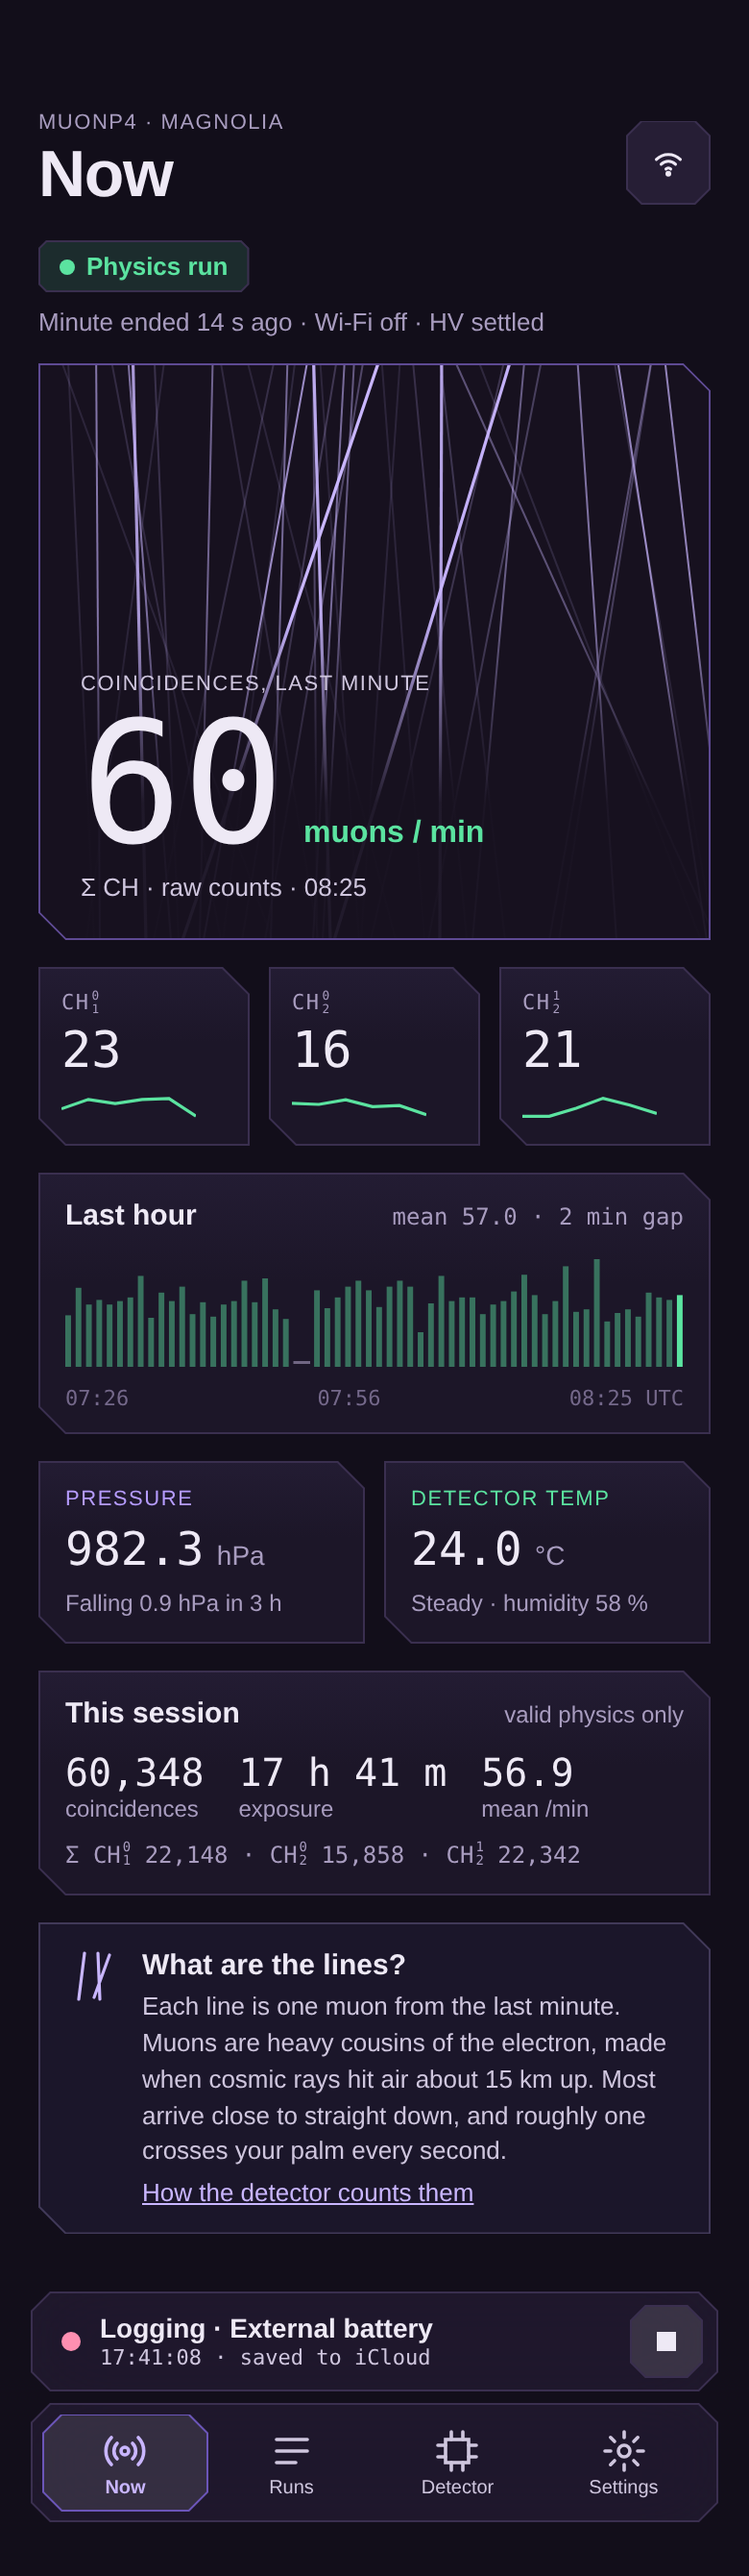
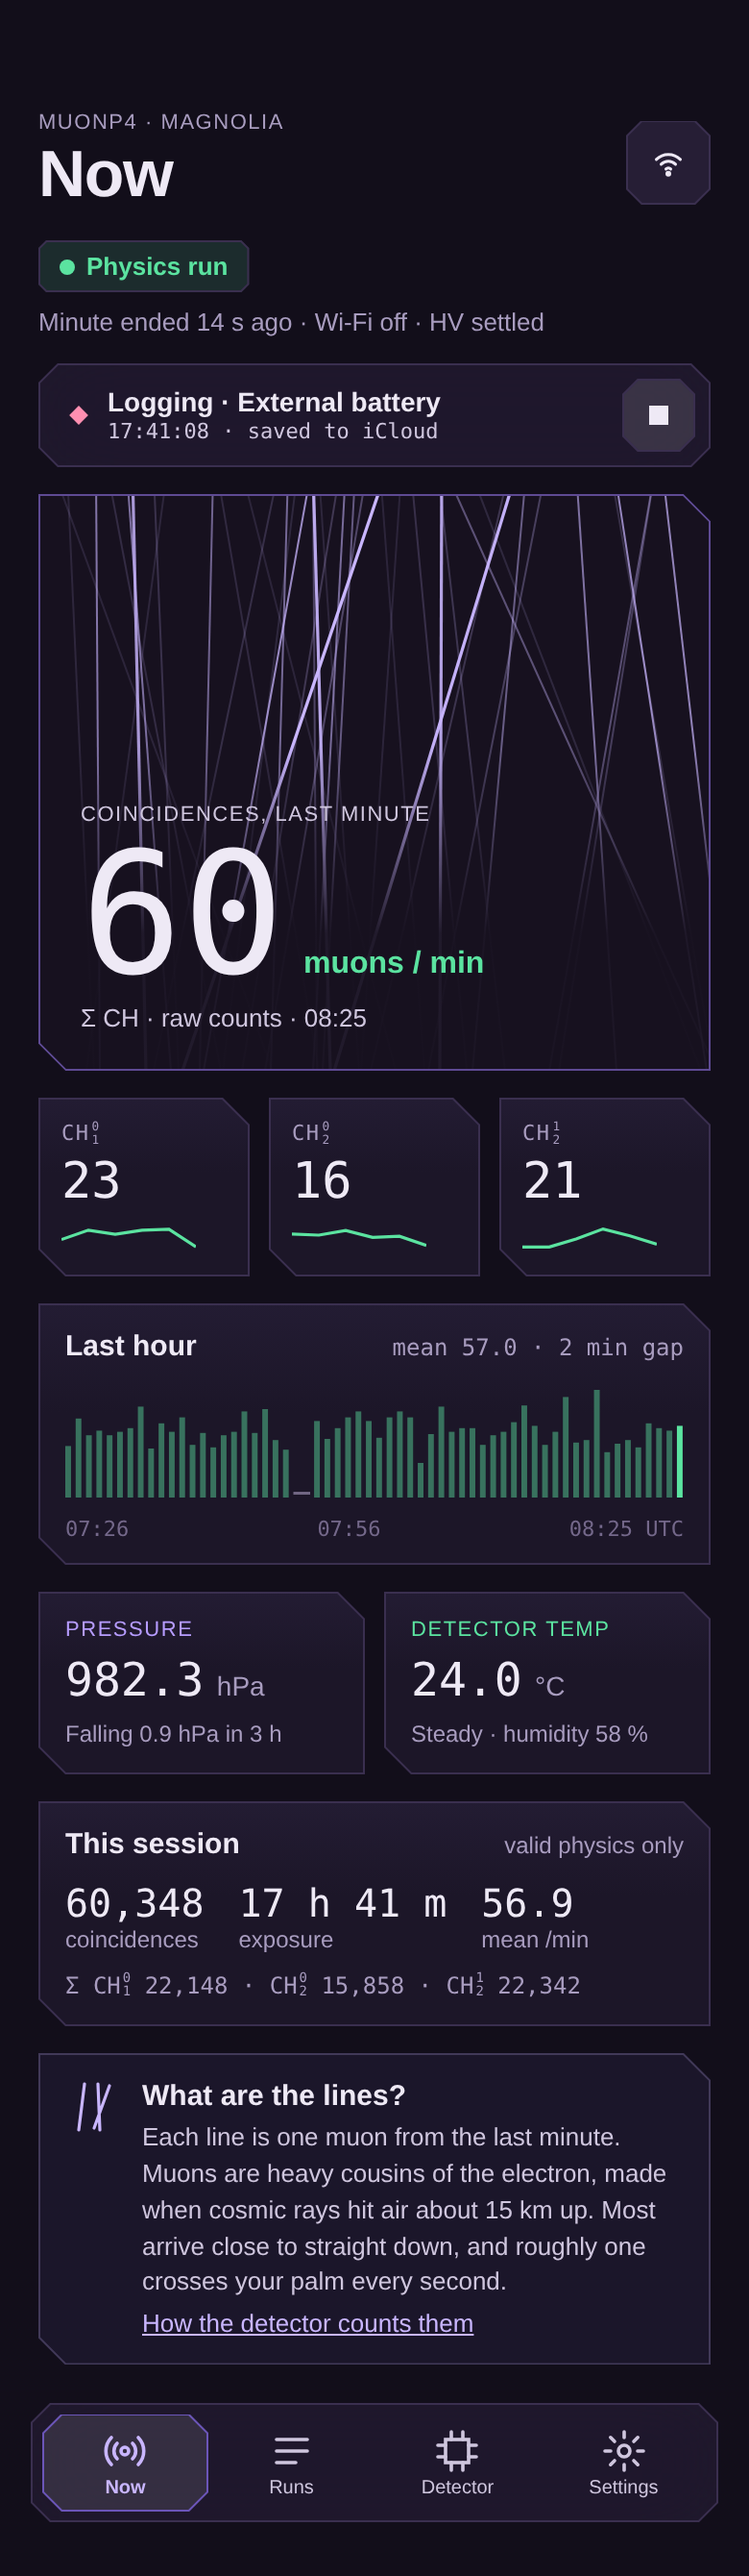
Design render: Now shows logging status inside the page, not above the tab bar
Claude-Session: https://claude.ai/code/session_01RwwkoMMJBvHqW1JRmxmF5K

diff --git a/README.md b/README.md
@@ -35,7 +35,7 @@ Core tests and signed iPhone builds pass. The new firmware has not been flashed 
   <img src="design/renders/Widgets.png" height="420" alt="Home widgets and Control Center">
 </p>
 
-<sub>Rendered from the design canvas (September 27, 2026) with placeholder data. The Lock Screen and Dynamic Island match the current Swift layout; other screens may lag the app (for example, the app no longer shows a logging banner above the tab bar). All renders are in <a href="design/renders/">design/renders/</a>.</sub>
+<sub>Rendered from the design canvas (September 27, 2026) with placeholder data. The Lock Screen and Dynamic Island match the current Swift layout, and Now shows the logging bar inside the page as the app does; other screens may lag the app. All renders are in <a href="design/renders/">design/renders/</a>.</sub>
 
 ## Live logging and layout update — September 27, 2026
 
